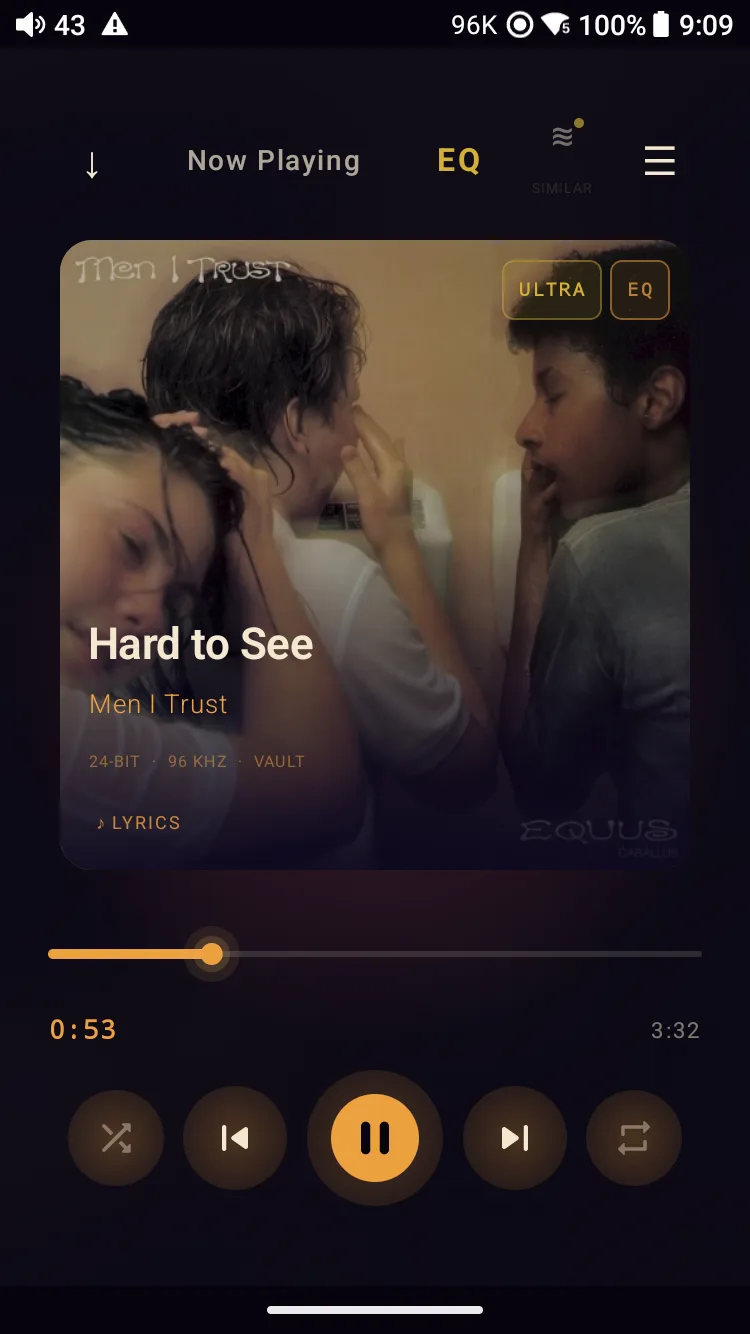
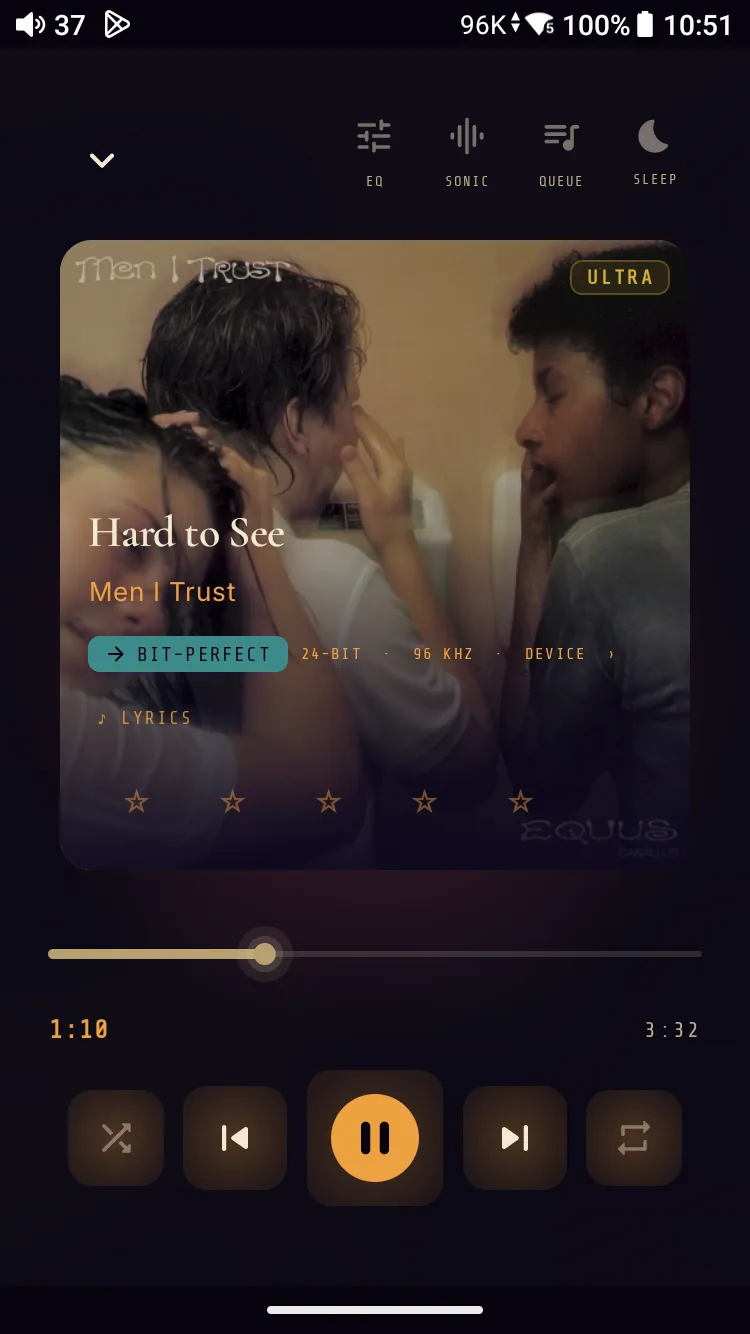
shots: recapture the three lead screens, and fix what they proved wrong
The May captures were two months behind the app. Reshot on the M21 against
1.30.1 (vc129) — and framing each shot deliberately surfaced four claims in
the surrounding copy that the old screenshots had been quietly covering for.

now_playing — 'Hard to See', Men I Trust, 24/96 FLAC. The old shot ran with
ReplayGain applying -1.3 dB, so the route chip read "Scaled". That is the
badge being honest, but it sat directly beside a hero card promising
"Vault - Direct passthrough" and a spec strip reading "Engine: Bit-Perfect".
Reshot with ReplayGain off so the chip reads BIT-PERFECT and the page stops
contradicting its own illustration.

library_albums — was an ARTIST page for Blur under a chapter arguing for the
dual-lens album grid and its quality chips. Now the actual grid: 406 albums,
"On device" vs "Server" lens toggle, Pearl Jam LOSSLESS beside Phoebe
Bridgers ULTRA so the tier distinction is visible rather than asserted.

home — the old shot predates the Library / Tune / Headphones row entirely,
showing a single wide Library button, the retired settings glyph and no
mini-player. The site was advertising a simpler app than the one that ships.

Copy corrected to match what the app actually renders:
  - quality chips are ULTRA / HD / LOSSLESS, not "ULTRA, FLAC, MP3" — see
    QualityTier.classify; FLAC and MP3 are codecs, never chip labels
  - cross-lens affordance is a teal "(+) Also on the server" banner with a
    one-tap switch, not a "+ Vault" / "+ Cloud" chip
[…]

diff --git a/index.html b/index.html
@@ -2035,7 +2035,7 @@ footer {
       <div class="hero-device" aria-label="Meringo Now Playing screen">
         <picture><source srcset="assets/screens/now_playing.webp" type="image/webp"><img src="assets/screens/now_playing.png"
              width="750" height="1334" decoding="async" fetchpriority="high"
-             alt="Meringo Now Playing — 'Hard to See' by Men I Trust, 24-bit / 96 kHz from the Vault. ULTRA dynamic-range chip + EQ engaged on the album-art card, ♪ LYRICS pill below the route line, full transport controls below the scrub bar"></picture>
+             alt="Meringo Now Playing — 'Hard to See' by Men I Trust, a 24-bit / 96 kHz FLAC from the Vault. Gold ULTRA chip on the album-art card, teal → BIT-PERFECT route chip reading 24-BIT · 96 KHZ · DEVICE, ♪ LYRICS pill and star rating below it, full transport controls under the scrub bar"></picture>
       </div>
 
       <!-- Mascot — narrator (head + collar only) -->
@@ -2162,7 +2162,7 @@ footer {
         Meringo gives you a dual-lens library: a <strong>Vault</strong> of local FLAC and ALAC files, and a <strong>Cloud</strong> lens that spans Jellyfin and the Subsonic / OpenSubsonic family — Navidrome, Airsonic, and friends.
       </p>
       <p class="chapter-body">
-        Each lens stands on its own — toggle, search, and sort within the world you're in. But when the same recording lives on more than one source, Meringo collapses the duplicate intelligently: <em>Vault wins over Jellyfin wins over Subsonic</em>, matched by MusicBrainz Recording ID, ISRC, a metadata tuple, or an acoustic-fingerprint twin link when the tags disagree. A <code style="font-family:var(--font-mono);font-size:0.9em;color:var(--color-gold)">+ Vault</code> or <code style="font-family:var(--font-mono);font-size:0.9em;color:var(--color-gold)">+ Cloud</code> chip on every Album page tells you which copies of a track live where. Quality chips on every album — <span style="color:var(--color-gold);font-family:var(--font-mono);font-size:0.9em">ULTRA</span>, <span style="color:var(--color-gold);font-family:var(--font-mono);font-size:0.9em">FLAC</span>, <span style="color:var(--color-text-2);font-family:var(--font-mono);font-size:0.9em">MP3</span> — round out the rack at a glance.
+        Each lens stands on its own — toggle, search, and sort within the world you're in. But when the same recording lives on more than one source, Meringo collapses the duplicate intelligently: <em>Vault wins over Jellyfin wins over Subsonic</em>, matched by MusicBrainz Recording ID, ISRC, a metadata tuple, or an acoustic-fingerprint twin link when the tags disagree. An <code style="font-family:var(--font-mono);font-size:0.9em;color:var(--color-teal-bright)">&#8853; Also on the server</code> banner on the Album page tells you when the other lens holds a copy too — and offers a one-tap switch to it. Quality chips on every album — <span style="color:var(--color-gold);font-family:var(--font-mono);font-size:0.9em">ULTRA</span> for 24-bit at 88.2 kHz and up, <span style="color:var(--color-gold);font-family:var(--font-mono);font-size:0.9em">HD</span> for the rest of hi-res, <span style="color:var(--color-text-2);font-family:var(--font-mono);font-size:0.9em">LOSSLESS</span> for CD-spec — round out the rack at a glance.
       </p>
       <div class="chapter-specs">
         <span class="chapter-spec-tag gold">Vault · Cloud</span>
@@ -2179,13 +2179,7 @@ footer {
       <div class="chapter-device">
         <picture><source srcset="assets/screens/library_albums.webp" type="image/webp"><img src="assets/screens/library_albums.png"
              loading="lazy" decoding="async" width="750" height="1334"
-             alt="Meringo artist page — Blur, 5 albums and 98 tracks, with Play All and Shuffle above the album shelf"></picture>
-        <!-- TODO(device): this file is an ARTIST page, not the album grid. Its alt
-             text claimed "Vault lens, 331 albums, ULTRA and FLAC quality chips"
-             for a shot showing none of those — corrected 2026-07-25 to describe
-             what is actually on screen. Ch. 01 is about the dual-lens library and
-             the quality chips, so it still wants a real Vault album-grid capture;
-             that needs the M21. -->
+             alt="Meringo Library — Vault lens (‘On device’) selected against ‘Server’, 406 albums in a 2-column grid sorted by artist. Pearl Jam’s ‘Yield’ carries a LOSSLESS chip, Phoebe Bridgers’ ‘Punisher’ an ULTRA chip, each above a teal Acoustic DNA bar reading 100%"></picture>
       </div>
     </div>
 
@@ -2498,7 +2492,7 @@ footer {
       <div class="chapter-device">
         <picture><source srcset="assets/screens/mood_smart.webp" type="image/webp"><img src="assets/screens/mood_smart.png"
              loading="lazy" decoding="async" width="750" height="1334"
-             alt="Meringo home — Mood and Smart Playlists generated from AcoustID fingerprinting and MusicBrainz metadata"></picture>
+             alt="Meringo home — Mood and Smart Playlists generated on-device from each track's chromagram and measured audio features"></picture>
       </div>
     </div>
 
@@ -2546,7 +2540,7 @@ footer {
       <div class="chapter-device">
         <picture><source srcset="assets/screens/now_playing.webp" type="image/webp"><img src="assets/screens/now_playing.png"
              loading="lazy" decoding="async" width="750" height="1334"
-             alt="Meringo Now Playing — the ≋ Sonic Match icon lives in the top-right of the screen and seeds a Sonic Radio queue when tapped"></picture>
+             alt="Meringo Now Playing — SONIC sits in the icon row across the top of the screen, between EQ and QUEUE, and seeds a Sonic Radio queue when tapped"></picture>
       </div>
     </div>
 
@@ -2590,7 +2584,7 @@ footer {
       <div class="chapter-device">
         <picture><source srcset="assets/screens/atmospheres.webp" type="image/webp"><img src="assets/screens/atmospheres.png"
              loading="lazy" decoding="async" width="750" height="1334"
-             alt="Meringo Library — Vault lens, Atmospheres view-type selected. The mood tiles show counts derived locally from each track&rsquo;s audio fingerprint, shown here for a sample library: Lite Roast (1316 tracks, 172 albums), Fruity (637 tracks, 214 albums), Dark &amp; Bold (rock / metal / hip-hop / funk) partially visible below"></picture>
+             alt="Meringo Library — Vault lens, Atmospheres view-type selected. The mood tiles show counts derived locally from each track&rsquo;s chromagram and measured audio features, shown here for a sample library: Lite Roast (1316 tracks, 172 albums), Fruity (637 tracks, 214 albums), Dark &amp; Bold (rock / metal / hip-hop / funk) partially visible below"></picture>
       </div>
     </div>
 
